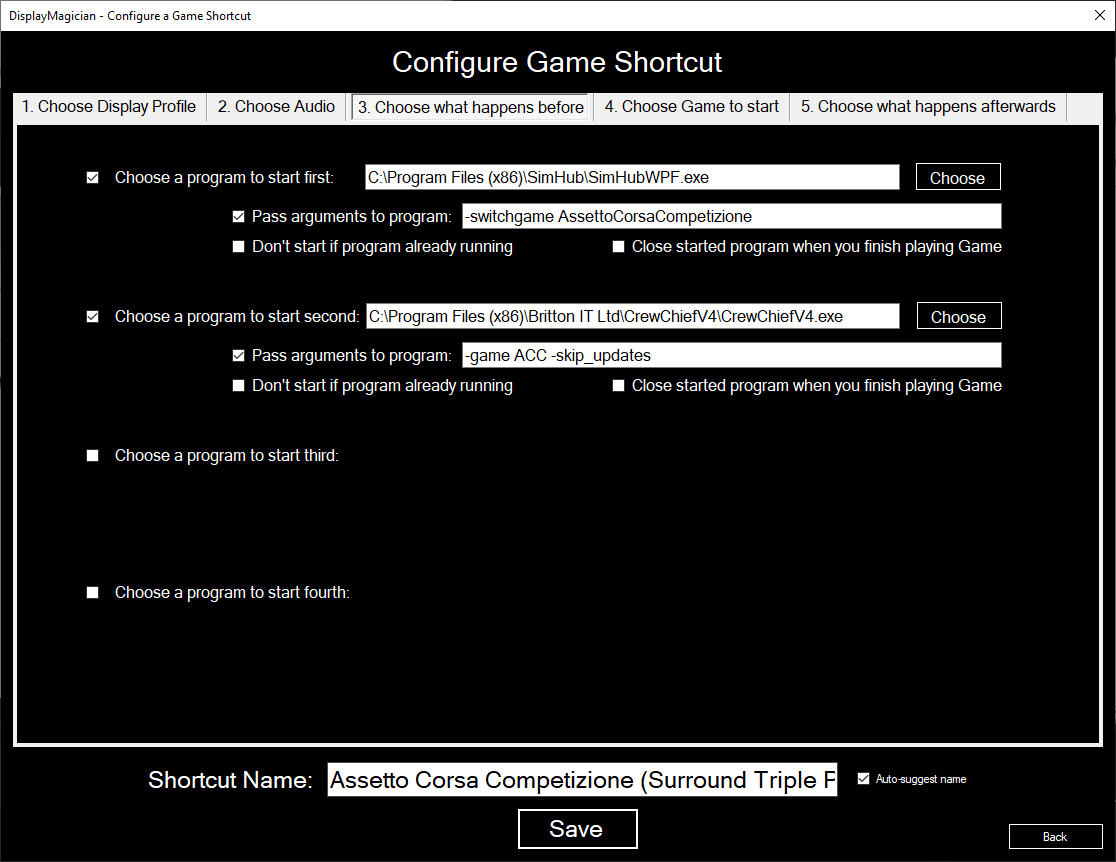
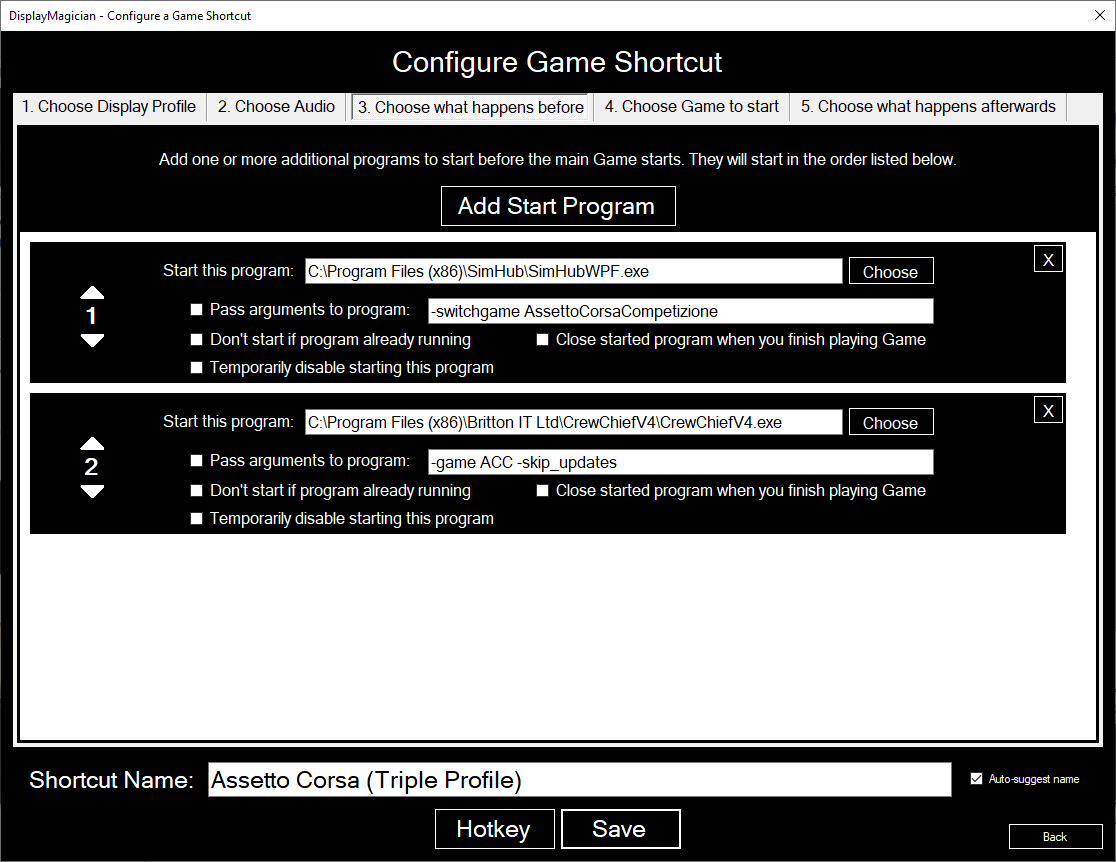
README updates

diff --git a/README.md b/README.md
@@ -19,7 +19,7 @@ Different games require your displays configured in different ways. If you're a 
 
 There is now. DisplayMagician allows you to configure multiple different display profiles, and then use those different display profiles to create Game Shortcuts. These Game Shortcuts allow you to have your game or application start exactly the way you like it.
 
-Do you like running Dirt Rally 2.0 on a single NVidia Surround window across triple screens, and yet you like to run Project Cars 2 across four individual screens (a triple and one above)? Do you like running SimHub when you play iRacing, yet you want to start Twitch when you play Call of Duty? Well with DisplayMagician you can do all that with a single Desktop Shortcut!
+Do you like running Dirt Rally 2.0 on a single NVidia Surround window across triple screens, and yet you like to run Project Cars 2 across four individual screens (a triple and one above)? Do you like running SimHub when you play iRacing, yet you want to start Twitch when you play Call of Duty? Well with DisplayMagician you can do all that with a single Desktop Shortcut (you can even start games with a Hotkey)!
 
 DisplayMagician also allows you to automatically change to a different audio device just for one game, and will revert that change when you close the game. Great if you have some special audio devices you use only for certain games. No more fiddling with audio settings - just play the game!
 
@@ -31,10 +31,12 @@ Feel free to report missing features or bugs using the project [issue tracker](h
 
 DisplayMagician lets you set up the following information for each game or application:
 * Create and save a Display Profile to be used within future Desktop Shortcuts
-* Save a Desktop Shortcut that will automatically change to a different Display Profile when you double-click on it.
+* Save a Game Shortcut that will automatically change to a different Display Profile and start your Game when you double-click on it.
+* Run your Game Shortcut using a keyboard shortcut (Hotkey).
+* Or start your games by right-clicking on the DisplayMagician Notification Tray icon.
 * Choose which Audio Device you want the shortcut to use. Like using the wireless headset when driving? This lets you with a single click.
 * Add one or more programs to pre-start before your game or application
-* Works with Steam and Uplay Game libraries!
+* Works with Steam, Uplay and Origin Game libraries!
 * Optionally rollback to your previous Display profile once the game or application has closed.
 * Or maybe just create a Shortcut that permanently changes to a different Display Profile! The options are endless.
 * Also comes with a Shell Extension that allows you to change to a different Display Profile by right-clicking on the desktop background!
@@ -42,15 +44,14 @@ DisplayMagician lets you set up the following information for each game or appli
 
 ## Planned features
 
+* Support of AMD Eyefinity if someone donates an AMD video card to me (Need to create a C# wrapper for AMD ADL)
 * Add Epic Game Launcher
-* Add Origin Game Launcher
 * Add Battlenet Game Launcher
 * Add Bethesda Game Launcher
 * Add Blizzard Games Launcher (maybe?)
 * Add Galaxy of Games Game Launcher (maybe?)
 * Add Unit Tests!
-* Change UI from Winforms to better looking WPF
-* Support of AMD Eyefinity if someone donates an AMD video card to me (Needs a C# wrapper for AMD ADL)
+* Change UI from Winforms to .NET6 and MAUI
 
 ## Donation
 I am doing this work to scratch a programming itch I've had for a while. It's pretty fun to take something carefully crafted by another developer and extend it with a lot of other awesome features. That said, I'd appreciate a donation to help buy a coffee or two! 
@@ -68,26 +69,30 @@ I am doing this work to scratch a programming itch I've had for a while. It's pr
 <div style="text-align:center"><img src="READMEAssets/DisplayMagicianConfigureShortcut3.png"/></div>
 <div style="text-align:center"><img src="READMEAssets/DisplayMagicianConfigureShortcut4.png"/></div>
 <div style="text-align:center"><img src="READMEAssets/DisplayMagicianConfigureShortcut5.png"/></div>
+<div style="text-align:center"><img src="READMEAssets/DisplayMagicianDisplayProfileHotkey.png"/></div>
 <div style="text-align:center"><img src="READMEAssets/DisplayMagicianShellExtension.png"/></div>
 
 
 ### Initial Setup:
 
 1. Install 'DisplayMagician'
-2. Run 'DisplayMagician', and click on the 'Setup Display Profiles' button
+2. Run 'DisplayMagician', and click on the 'Display Profiles' button
     * Use 'Windows Display Settings' or 'NVIDIA Control Panel' to configure your display(s) exactly as you would like them
     * ALT-TAB back to DisplayMagician, and you should see the new display configuration shown in the Display Profile window.
     * Click the 'Save As/Rename' button so that DisplayMagician will remember the current Display Profile so you can use it in your Shortcuts.
     * You will need to do this for each different display configuration you want to use in any of your games or applications.
-    * Click 'Back' button to go back to the Main HelioPlus window.
-2. Now that you have some Display Profiles set up, you can create some shortcuts that will use them! Click on the 'Setup Game Shortcuts' button.
+    * Click 'Back' button to go back to the main DisplayMagician window.
+2. Now that you have some Display Profiles set up, you can create some Game Shortcuts that will use them! Click on the 'Game Shortcuts' button.
 3. You will be shown your Shortcut Library window. This is where all your Shortcuts live, and where you have to go if you every want to edit them.
-4. Click the 'New' button to create a new Shortcut
-    * Choose the Display Profile you want to use with the Shortcut. Make sure it matches what the game expects :).
-    * Click on the 'Choose what Game you start' tab, to choose the main game or application that the Shortcut will start.
-    * Choose the Game from the list shown (be sure to click the > button), or if it's not listed there then select the game or application executable. You can also choose to not start anything if you want to permanently change to a different display profile. 
-    * Click on the 'Chose what happens afterwards' tab, and choose if you want to rollback any display changes you make while starting the game, or if you want to keep them.
+4. Click the 'New' button to create a new Game Shortcut
+    * Choose the Display Profile you want to use with the Game Shortcut. Make sure it matches what the game expects :).
+    * Click on the '2. Choose Audio' tab, to modify which speakers you use for sound, or which microphone you use to talk into.
+    * Click on the '3. Choose what happens before' tab, to choose any other programs you want to start before you start the main Game or Application. You can choose if you want to shut them down afterwards too!
+    * Click on the '4. Choose Game to start' tab, to choose the main game or application that the Game Shortcut will start and monitor.
+    * Choose the Game from the list shown (be sure to click the > button), or if it's not listed there then select the game or application executable. 
+    * Click on the '5. Chose what happens afterwards' tab, and choose if you want to rollback any changes made by the Game Shortcut when it runs, or if you want to keep them.
     * If the 'auto-suggest name' option is enabled then you should have a Shortcut Name already entered in automatically. 
+    * You can optionally create a keyboard shortcut (Hotkey) for this Game Shortcut. To do this, click on the 'Hotkey' button.
     * Click the 'Save' button to save the Shortcut to the Shortcut Library. If you can only see the outline of a button, then you have some missing fields you need to fill in. The Save button only shows if you have a valid Shortcut set up.
 5. Once you've saved the Short cut, you should see it in the Shortcut Library.
 6. To create a Desktop shortcut file from your Shortcut, select it in the list in your Shortcut Library, and click the 'Save to Desktop' button. This will then write the Shortcut to your computer, ready to use!
